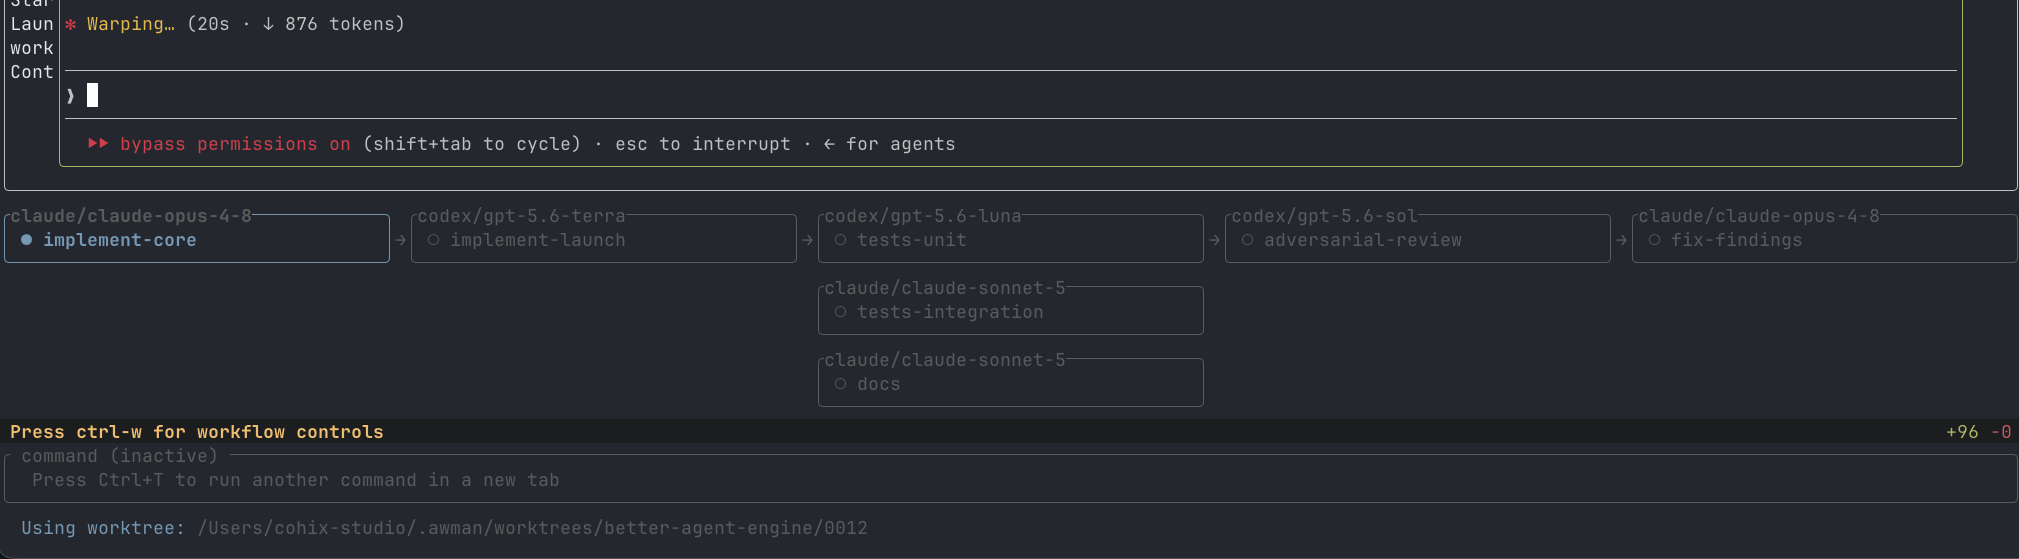
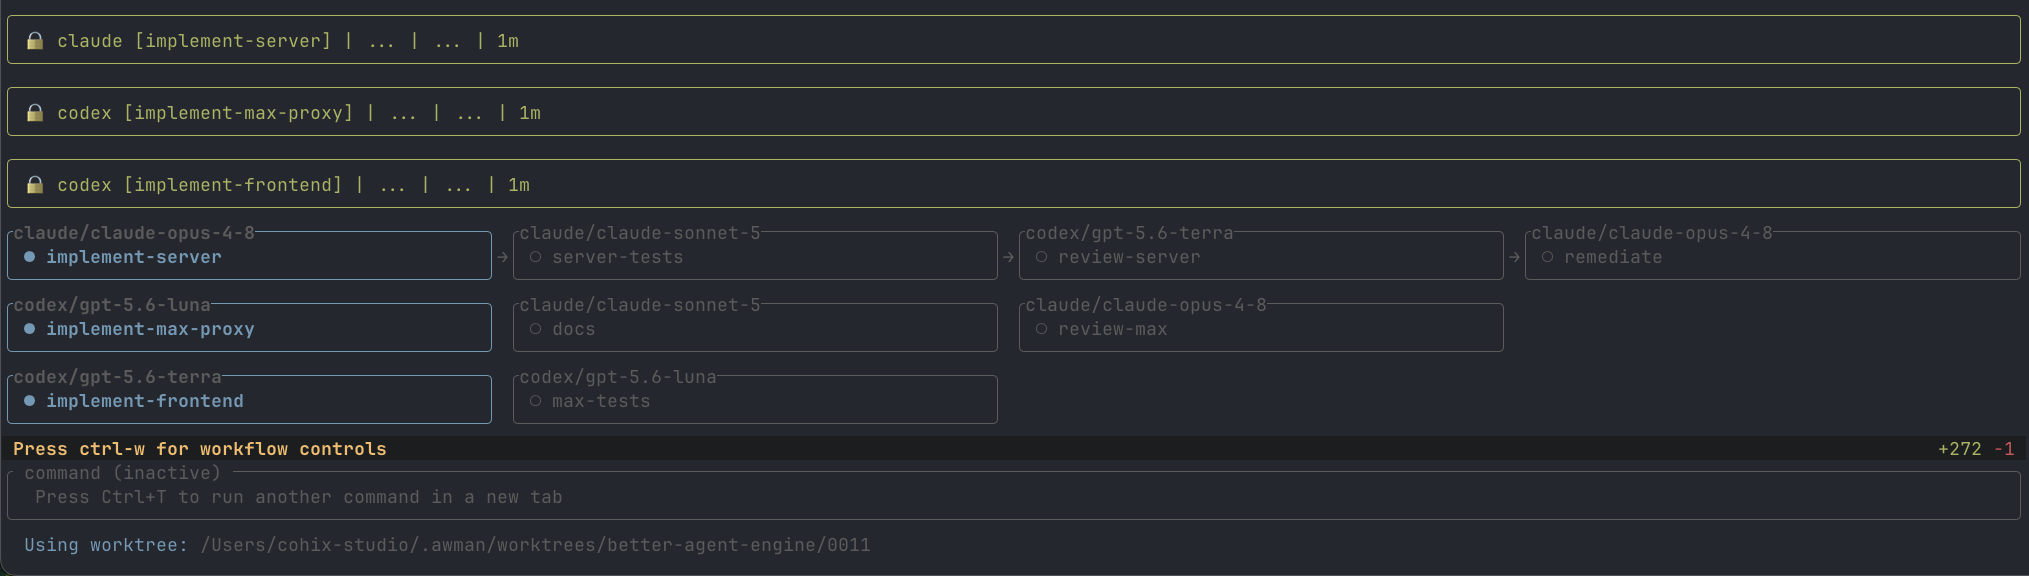
fix failing CI

diff --git a/src/engine/sandbox/dsbx/spawn.rs b/src/engine/sandbox/dsbx/spawn.rs
@@ -169,9 +169,17 @@ impl SbxCommand {
 
         if let Some(bytes) = &self.stdin {
             if let Some(mut stdin) = child.stdin.take() {
-                stdin
-                    .write_all(bytes)
-                    .map_err(|e| EngineError::Sandbox(format!("write sbx stdin: {e}")))?;
+                // The child can exit before it finishes reading stdin — e.g. an
+                // `sbx secret set` that bails with "not logged in" and never
+                // consumes the piped secret. That closes the read end and the
+                // write surfaces as BrokenPipe. It is not our error to report:
+                // the child's exit code and stderr are authoritative, so swallow
+                // it and let `wait_with_output` below surface the real failure.
+                if let Err(e) = stdin.write_all(bytes) {
+                    if e.kind() != std::io::ErrorKind::BrokenPipe {
+                        return Err(EngineError::Sandbox(format!("write sbx stdin: {e}")));
+                    }
+                }
                 // Drop closes the pipe so the child sees EOF.
             }
         }

diff --git a/src/engine/sandbox/dsbx/mod.rs b/src/engine/sandbox/dsbx/mod.rs
@@ -38,10 +38,19 @@ pub(super) mod test_support {
     pub fn with_fake_sbx<F: FnOnce()>(script: &str, f: F) {
         let tmp = tempfile::tempdir().unwrap();
         write_fake_sbx(tmp.path(), script);
-        let _guard = PATH_LOCK.lock().unwrap();
+        // Recover a poisoned lock instead of propagating the poison: if one
+        // test panics while holding it, the panic itself is that test's
+        // failure — it must not cascade a `PoisonError` into every other dsbx
+        // test and bury the real cause.
+        let _guard = PATH_LOCK.lock().unwrap_or_else(|e| e.into_inner());
         let orig = std::env::var("PATH").unwrap_or_default();
         std::env::set_var("PATH", format!("{}:{orig}", tmp.path().display()));
-        f();
+        // Restore PATH even if `f()` panics, so the global mutation never leaks
+        // into a later test; then re-raise so the panic is still the failure.
+        let result = std::panic::catch_unwind(std::panic::AssertUnwindSafe(f));
         std::env::set_var("PATH", orig);
+        if let Err(payload) = result {
+            std::panic::resume_unwind(payload);
+        }
     }
 }